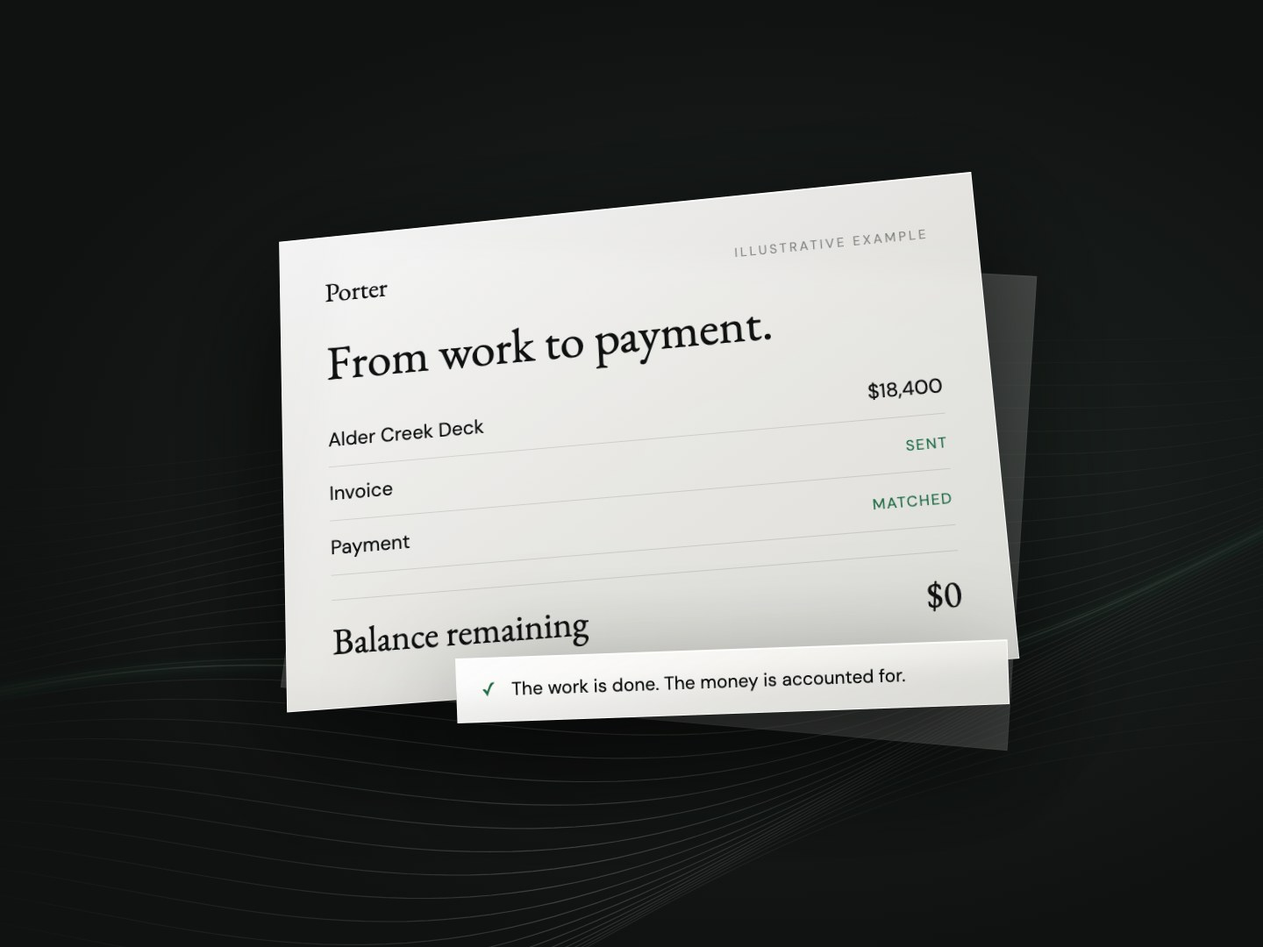
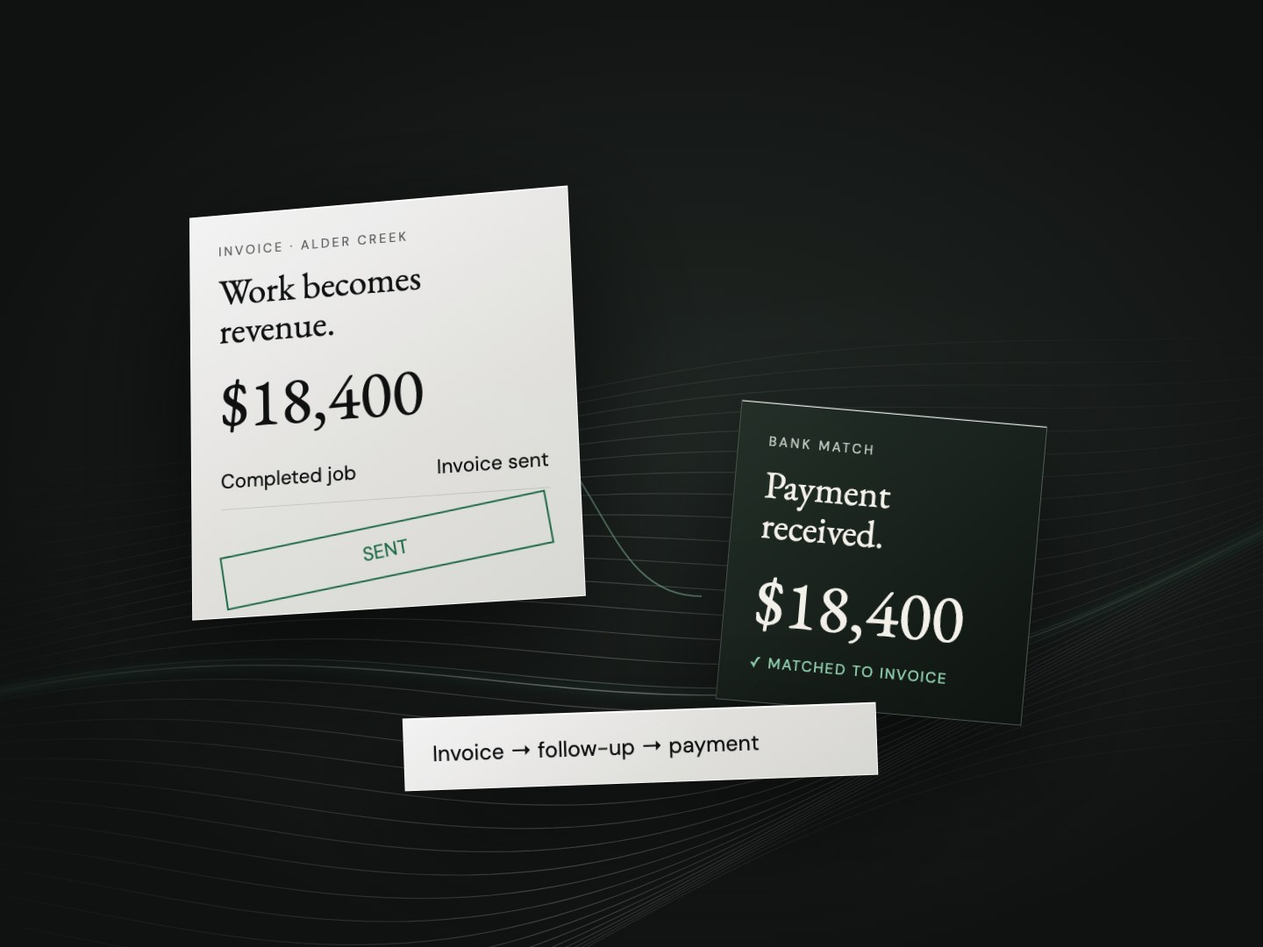
Clarify customer challenges and add distinct cinematic service and proof graphics

Changed region(s): [[0.125, 0.1833, 0.8438, 0.8556]]

diff --git a/scripts/showcase/source/scene-art.html b/scripts/showcase/source/scene-art.html
@@ -1,0 +1,27 @@
+<!doctype html><html><head><meta charset="utf-8"><link rel="stylesheet" href="glass.css"><script src="glass.js"></script><style>
+body.t-mono{--base:#101211;--bg:radial-gradient(ellipse at 55% 48%,#202723,#101211 74%);--hazec:rgba(149,212,179,.025)}
+#objects{position:absolute;inset:0;perspective:2200px}.paper{padding:34px;border-radius:0;transform:rotateY(-7deg) rotateX(10deg) rotateZ(-4deg)}.paper h2{font:400 43px/1.08 'EB Garamond';margin:16px 0 24px}.lab{font-size:15px;color:var(--tx3)}.amount{font:400 78px/1 'EB Garamond';margin:20px 0}.line{display:flex;justify-content:space-between;align-items:center;gap:18px;border-bottom:1px solid var(--hair);padding:17px 0;font-size:23px}.line:last-child{border:0}.good{color:var(--hi)}.tag{font:400 17px 'DM Sans';letter-spacing:.1em;text-transform:uppercase}.ribbon{padding:24px 32px;border-radius:0;font-size:25px;transform:rotateZ(-2deg)}.dark{--g-bg:linear-gradient(135deg,rgba(36,48,41,.96),rgba(14,20,16,.96));--tx:#F4F1EA;--tx3:#BFC9C1;--hair:rgba(191,201,193,.2);--hi:#95D4B3;--g-bd:rgba(191,201,193,.3);color:var(--tx)}
+.connections{position:absolute;inset:0;width:1440px;height:1080px}.connections path,.connections line{fill:none;stroke:#95D4B3;stroke-width:2;opacity:.5}.connections circle{fill:#95D4B3}.small{font-size:20px;color:var(--tx3);line-height:1.5}.calendar{display:grid;grid-template-columns:repeat(7,1fr);gap:10px;margin-top:30px}.day{font-size:25px;min-height:54px;padding:10px;text-align:center}.day.paid{background:var(--fill);color:var(--hi);outline:1px solid var(--hi)}.tile{padding:22px;border-radius:0;text-align:center}.tile .amount{font-size:49px}.bar{height:35px;background:var(--fill);margin:18px 0;position:relative}.bar i{display:block;height:100%;background:var(--hi);opacity:.7}.receipt{width:340px;height:420px;padding:34px;clip-path:polygon(0 0,100% 0,100% 96%,95% 100%,90% 96%,85% 100%,80% 96%,75% 100%,70% 96%,65% 100%,60% 96%,55% 100%,50% 96%,45% 100%,40% 96%,35% 100%,30% 96%,25% 100%,20% 96%,15% 100%,10% 96%,5% 100%,0 96%)}.stamp{border:2px solid var(--hi);padding:14px;font:400 22px 'DM Sans';text-align:center;color:var(--hi);transform:rotate(-8deg);margin-top:28px}.ghost{opacity:.5}.missing{border:2px dashed var(--tx3);padding:28px;margin-top:34px;text-align:center;color:var(--tx3);font-size:24px}.dots{display:flex;gap:14px;margin-top:30px}.dots b{width:20px;height:20px;border-radius:50%;background:var(--hi);opacity:.7}
+</style></head><body class="t-mono"><div id="stage"><div id="haze"></div><div id="objects"></div></div><script>
+const P=(x,y,w,content,extra='',style='')=>`<div class="glass paper ${extra}" style="left:${x}px;top:${y}px;width:${w}px;${style}">${content}</div>`;
+const R=(a,b)=>`<div class="line"><span>${a}</span><span>${b}</span></div>`;
+const H=(label,title)=>`<div class="lab">${label}</div><h2>${title}</h2>`;
+const links=paths=>`<svg class="connections" viewBox="0 0 1440 1080">${paths.map(d=>`<path d="${d}"/>`).join('')}</svg>`;
+const ribbon=(x,y,w,text)=>P(x,y,w,text,'ribbon');
+const chart=`<svg viewBox="0 0 700 310" style="width:100%;margin:25px 0"><path d="M0 270H700M0 170H700M0 70H700" stroke="rgba(14,17,16,.12)" fill="none"/><path d="M0 270C100 250 130 275 230 200S360 205 445 140S590 110 700 30" stroke="#2D6A4F" stroke-width="5" fill="none"/><path d="M230 200C360 195 445 220 700 190" stroke="#707973" stroke-width="4" stroke-dasharray="9 9" fill="none"/><circle cx="445" cy="140" r="8" fill="#2D6A4F"/></svg>`;
+const services=[
+ links(['M590 410L760 410','M590 610L760 610'])+P(160,240,460,H('Bank activity','Every movement, matched.')+R('Customer payment','$12,480')+R('Vendor payment','−$4,800')+R('Payroll','−$18,250'))+P(780,300,440,H('General ledger','A clear record.')+R('Receivables','✓ Matched')+R('Payables','✓ Matched')+R('Payroll','✓ Matched'),'','transform:rotateZ(4deg)')+ribbon(480,750,550,'Reconciled books → month-end reports'),
+ links(['M470 440C700 440 660 680 800 680'])+P(210,220,450,H('Invoice · Alder Creek','Work becomes revenue.')+'<div class="amount">$18,400</div>'+R('Completed job','Invoice sent')+'<div class="stamp">SENT</div>')+P(830,470,350,H('Bank match','Payment received.')+'<div class="amount">$18,400</div><div class="good tag">✓ Matched to invoice</div>','dark','transform:rotateZ(5deg)')+ribbon(460,810,540,'Invoice → follow-up → payment'),
+ P(220,190,710,H('Payment calendar','The right payment. The right day.')+'<div class="calendar">'+Array.from({length:28},(_,i)=>`<div class="day ${[7,13,20].includes(i)?'paid':''}">${i+1}</div>`).join('')+'</div>')+P(890,310,330,H('To approve','Materials supply')+'<div class="amount">$4,800</div>'+R('Due','14 Aug'),'dark','transform:rotateZ(7deg)')+ribbon(770,720,460,'Approval stays with you.'),
+ links(['M720 400V530M390 650V530H1050V650','M720 530V650'])+P(470,170,500,H('Payroll · 28 August','One payday. Everyone aligned.')+'<div class="dots"><b></b><b></b><b></b><b></b><b></b></div>')+[260,565,870].map((x,i)=>P(x,600,290,H(['Pay','Withholding','Books'][i],['Your people','Payroll taxes','Payroll journal'][i])+`<div class="good tag">${['Prepared','Recorded','Connected'][i]}</div>`,i===1?'dark':'','transform:rotateZ('+([-5,0,5][i])+'deg)')).join(''),
+ P(250,330,490,H('Supporting records','The details, organized.')+R('Year-end books','✓')+R('Payroll records','✓')+R('Supporting schedules','✓'),'','transform:rotateZ(-12deg)')+P(650,200,470,H('Tax preparation','Ready for filing.')+'<div class="small">Books and supporting records<br>connected to the filing process.</div><div class="stamp">PREPARATION → REVIEW</div>','','transform:rotateZ(6deg);min-height:490px')+ribbon(510,780,570,'A coordinated process, before the deadline.'),
+ P(180,200,950,H('Financial planning','One decision. Different futures.')+chart+R('Solid: operating plan','Dashed: hiring scenario'))+P(955,670,310,H('What if?','Two new hires')+'<div class="small">Explore the impact<br>before you commit.</div>','dark','transform:rotateZ(6deg)')
+];
+const challenges=[
+ P(330,240,660,H('Your current reports','The totals are there.')+R('Revenue','$148,000')+R('Operating expenses','$121,000')+'<div class="missing">But what changed — and why?</div>','','transform:rotateZ(-6deg)')+P(870,650,300,'<div class="amount">?</div><div class="small">Still waiting<br>for an explanation.</div>','dark','transform:rotateZ(7deg)'),
+ P(170,240,540,H('Email · last month','What was this payment for?')+'<div class="small">You already explained it.</div>','','transform:rotateZ(-8deg)')+P(600,445,530,H('Message · this month','Can you remind us?')+'<div class="small">The same context. Again.</div>','dark','transform:rotateZ(5deg)')+P(380,725,570,H('Your time','Back to the same conversation.'),'','transform:rotateZ(-3deg)'),
+ P(190,210,560,H('Job completed','Alder Creek Deck')+'<div class="amount">$18,400</div><div class="tag good">Work delivered</div>','','transform:rotateZ(-7deg)')+P(760,400,460,H('Still missing','The invoice.')+'<div class="missing">Not sent</div>','','transform:rotateZ(6deg)')+ribbon(460,780,540,'Work done. Cash still outstanding.'),
+ [P(160,220,420,H('Accounting','The books.')+R('Transactions','↗'),'','transform:rotateZ(-9deg)'),P(810,260,400,H('Spreadsheets','The group view.')+R('Manual roll-up','…'),'','transform:rotateZ(8deg)'),P(210,650,430,H('Inbox','The context.')+R('Messages','↗'),'dark','transform:rotateZ(5deg)'),P(790,660,450,H('Payments','The cash.')+R('Separate records','…'),'dark','transform:rotateZ(-5deg)')].join('')
+];
+const mode=new URLSearchParams(location.search).get('mode')||'service';const n=+(new URLSearchParams(location.search).get('n')||0);$('objects').innerHTML=(mode==='challenge'?challenges:services)[n];window.render=t=>renderField(t,.5);ready();
+</script></body></html>

diff --git a/src/sections/Pain.tsx b/src/sections/Pain.tsx
@@ -10,7 +10,6 @@ import { PainTools } from "../illustrations/PainTools";
 import type { PainIllustration } from "../industries/types";
 import "./Pain.css";
 import { Pill } from "../primitives/Pill";
-import { UseCaseFilm } from "../components/UseCaseFilm";
 import { USE_CASES } from "../content/useCases";
 
 type IllustrationComponent = (props: { active?: boolean }) => ReactElement;
@@ -80,16 +79,20 @@ export function Pain({ title, cards, cinematic = false }: PainProps = {}) {
 
   if (cinematic) {
     const stories = [
-      { title: "Numbers you can’t use.", problem: "Reports arrive after the decision. You see totals, but still don’t know what changed or what to do next.", result: "Ask a question. Follow the answer into the numbers behind it.", film: 2 },
-      { title: "The same explanations, every month.", problem: "Your finance work lives across conversations. You keep reminding people what each transaction was for.", result: "Porter learns the way your business works and carries that context forward.", film: 13 },
-      { title: "Work done. Money missing.", problem: "A finished job never becomes an invoice. Follow-ups slip. Cash arrives later than it should.", result: "Connect completed work to invoices and keep collections moving.", film: 3 },
-      { title: "A business spread across tools.", problem: "Every company has its own books. You spend time piecing them together before you can see the whole picture.", result: "Bring the companies together, with a clear view of each one and the group.", film: 5 },
+      { label: "Unclear reports", title: "Your reports arrive. The answers don’t.", challenge: "Your provider sends the totals, but you’re still left figuring out what changed, why it happened, and what to do next.", film: 2, alt: "A financial report contains totals, while a separate unanswered question asks what changed and why." },
+      { label: "Repeating yourself", title: "You explain your business. Then explain it again.", challenge: "The context gets lost between emails, messages and month-end questions. You keep reminding your provider what the same transactions were for.", film: 13, alt: "Messages from successive months ask for the same explanation, illustrating repeated work." },
+      { label: "Unpaid work", title: "You finished the work. The invoice never went out.", challenge: "Invoicing and follow-ups fall between you and your provider. Completed work stays unbilled, and cash arrives later than it should.", film: 3, alt: "A completed job sits apart from an invoice that has not been sent." },
+      { label: "Disconnected tools", title: "You have the tools. You still assemble the picture.", challenge: "Your books, payments, messages and spreadsheets live in different places. You become the person who has to connect them.", film: 5, alt: "Four separate records for accounting, spreadsheets, messages and payments have no connections between them." },
     ];
     const story = stories[active];
     return <section className="pain pain--cinematic section" id="pain"><SectionGradient shape={SHAPES.declining} intensity={0.07} />
-      <div className="container pain__inner"><MicroLabel>What we solve</MicroLabel><div className="pain__choices" aria-label="Choose a business problem">{stories.map((story,i) => <Pill key={story.title} variant={active === i ? "primary" : "ghost"} aria-pressed={active === i} onClick={() => setActive(i)}>{String(i+1).padStart(2,"0")} / {['Clarity','Context','Cash','Complexity'][i]}</Pill>)}</div>
-        <div className="pain__experience"><div className="pain__story" key={story.title}><SectionTitle text={story.title} scrub={false} /><p>{story.problem}</p><a href={`/use-cases/${USE_CASES.find(item => item.id === story.film)!.slug}`}>Explore this example ↗</a></div>
-        <UseCaseFilm key={story.film} item={USE_CASES.find(item => item.id === story.film)!} /></div>
+      <div className="container pain__inner">
+        <div className="pain__heading"><MicroLabel>The challenges</MicroLabel><SectionTitle text="When your finance setup holds you back." scrub={false} /><p>Challenges with your current provider or tools. Select one to explore.</p></div>
+        <div className="pain__choices" aria-label="Choose a challenge">{stories.map((item,i) => <Pill key={item.label} variant={active === i ? "primary" : "secondary"} aria-pressed={active === i} aria-controls="challenge-story" onClick={() => setActive(i)}><span>{String(i+1).padStart(2,"0")} / {item.label}</span><span aria-hidden="true">{active === i ? "−" : "+"}</span></Pill>)}</div>
+        <div className="pain__experience" id="challenge-story">
+          <div className="pain__story" key={story.title}><MicroLabel>With your current setup</MicroLabel><SectionTitle as="h3" text={story.title} scrub={false} /><p>{story.challenge}</p><a href={`/use-cases/${USE_CASES.find(item => item.id === story.film)!.slug}`}>See how Porter helps ↗</a></div>
+          <figure className="pain__art" key={active}><img src={`/challenges/challenge-${active+1}.jpg`} width="1440" height="1080" loading="lazy" alt={story.alt} /><figcaption>Illustrative example · before Porter</figcaption></figure>
+        </div>
       </div></section>;
   }
 
@@ -101,12 +104,12 @@ export function Pain({ title, cards, cinematic = false }: PainProps = {}) {
       <SectionGradient shape={SHAPES.declining} intensity={0.07} />
       <div className="container pain__inner">
         <Reveal>
-          <MicroLabel>The problem</MicroLabel>
+          <MicroLabel>The challenges</MicroLabel>
         </Reveal>
         <SectionTitle text={title ?? TITLE} className="pain__title" />
 
         <Reveal delay={120}>
-          <div className="pain__strip" role="tablist" aria-label="Pain points" style={{ gridTemplateColumns: gridCols }}>
+          <div className="pain__strip" role="tablist" aria-label="Business challenges" style={{ gridTemplateColumns: gridCols }}>
             {shown.map((c, i) => {
               const isActive = i === active;
               const { Illustration } = c;

diff --git a/src/sections/ScalesWithYou.tsx b/src/sections/ScalesWithYou.tsx
@@ -1,5 +1,4 @@
 import { useEffect, useRef, useState, useSyncExternalStore } from "react";
-import { MaterialIcon } from "../components/MaterialIcon";
 import { MicroLabel } from "../primitives/MicroLabel";
 import { SectionTitle } from "../primitives/SectionTitle";
 import { Reveal } from "../primitives/Reveal";
@@ -89,6 +88,17 @@ function ProofPage({ cases }: { cases?: Case[] }) {
   const rail = useRef<HTMLDivElement>(null);
   const reduced = useSyncExternalStore(subscribeMotion, motionSnapshot, () => true);
   const [paused, setPaused] = useState(false);
+  const [interacting, setInteracting] = useState(false);
+  const interactionTimer = useRef<ReturnType<typeof setTimeout> | null>(null);
+  const beginInteraction = () => {
+    if (interactionTimer.current) clearTimeout(interactionTimer.current);
+    setInteracting(true);
+  };
+  const endInteraction = () => {
+    if (interactionTimer.current) clearTimeout(interactionTimer.current);
+    interactionTimer.current = setTimeout(() => setInteracting(false), 1800);
+  };
+  useEffect(() => () => { if (interactionTimer.current) clearTimeout(interactionTimer.current); }, []);
   const [hovering, setHovering] = useState(false);
   const [focused, setFocused] = useState(false);
   const [inView, setInView] = useState(false);
@@ -99,7 +109,7 @@ function ProofPage({ cases }: { cases?: Case[] }) {
     return () => observer.disconnect();
   }, []);
   const deck = cases ?? CASES;
-  const automatic = !cases && !reduced && !paused && !hovering && !focused && inView;
+  const automatic = !cases && !reduced && !paused && !interacting && !hovering && !focused && inView;
   useEffect(() => {
     const el = rail.current;
     if (!el || !automatic) return;
@@ -122,9 +132,10 @@ function ProofPage({ cases }: { cases?: Case[] }) {
     return () => cancelAnimationFrame(frame);
   }, [automatic, deck.length]);
   const move = (direction: number) => {
-    setPaused(true);
+    beginInteraction();
+    endInteraction();
     const el = rail.current;
-    if (el) el.scrollBy({ left: direction * ((el.children[0] as HTMLElement).offsetWidth + 24), behavior: reduced ? "instant" : "smooth" });
+    if (el) el.scrollBy({ left: direction * ((el.children[0] as HTMLElement).offsetWidth + (Number.parseFloat(getComputedStyle(el).columnGap) || 0)), behavior: reduced ? "instant" : "smooth" });
   };
   return <div className="sws__page sws__page--proof" ref={viewRef}>
     <div className="container sws__proof-head">
@@ -139,17 +150,20 @@ function ProofPage({ cases }: { cases?: Case[] }) {
       aria-label="Customer stories" tabIndex={cases ? undefined : 0}
       onMouseEnter={() => setHovering(true)} onMouseLeave={() => setHovering(false)}
       onFocusCapture={() => setFocused(true)} onBlurCapture={event => { if (!event.currentTarget.contains(event.relatedTarget)) setFocused(false); }}
-      onTouchStart={() => setPaused(true)} onWheel={() => setPaused(true)}
+      onTouchStart={beginInteraction} onTouchEnd={endInteraction} onTouchCancel={endInteraction}
+      onWheel={event => { if (Math.abs(event.deltaX) > Math.abs(event.deltaY) || event.shiftKey) { beginInteraction(); endInteraction(); } }}
       onKeyDown={event => { if (!cases && (event.key === "ArrowRight" || event.key === "ArrowLeft")) { event.preventDefault(); move(event.key === "ArrowRight" ? 1 : -1); } }}>
       {deck.map((c,i) => <CaseCard key={c.kind} c={c} index={i+1} />)}
       {!cases && !reduced && deck.map((c,i) => <CaseCard key={`loop-${c.kind}`} c={c} index={i+1} duplicate />)}
     </div>
-    {!cases && <div className="container sws__proof-foot"><span>Different businesses. One finance team.</span><span>{reduced ? "Scroll to explore" : "Hover to pause. Take your time."}</span></div>}
+    {!cases && <div className="container sws__proof-foot"><span>Different businesses. One finance team.</span><span>{reduced ? "Scroll to explore" : "Plays automatically. Hover to pause."}</span></div>}
   </div>;
 }
 function CaseCard({ c, index, duplicate = false }: { c: Case; index: number; duplicate?: boolean }) {
+  const artwork = CASES.findIndex(story => story.kind === c.kind);
   return <HairlineCard className="sws__card" role="article" aria-label={c.kind} aria-hidden={duplicate || undefined} inert={duplicate || undefined} tabIndex={duplicate ? undefined : 0}>
-    <div className="sws__card-head"><span className="sws__card-num">{String(index).padStart(2,"0")}</span><MaterialIcon name={c.icon} /></div>
+    <div className="sws__card-head"><span className="sws__card-num">{String(index).padStart(2,"0")}</span><span>Customer story</span></div>
+    {artwork >= 0 && <div className="sws__art"><img src={`/proof/story-${artwork+1}.svg`} width="650" height="300" loading="lazy" alt="" /><span>Illustrated workflow</span></div>}
     <div className="sws__card-body"><h3 className="sws__card-kind">{c.kind}</h3><p className="sws__card-text">{c.body}</p></div>
   </HairlineCard>;
 }

diff --git a/src/sections/ScalesWithYou.css b/src/sections/ScalesWithYou.css
@@ -175,3 +175,19 @@
 }
 
 .sws__navigation .sws__pause { width: auto; padding-inline: 18px; font-size: 10px; }
+
+/* Paper and glass objects within the dark stage, matching the campaign films. */
+.sws__rail { padding-top: 18px; padding-bottom: 42px; gap: 28px; }
+.sws__card.hairline-card { position: relative; isolation: isolate; width: 350px; min-height: 0; padding: 22px 24px 28px; justify-content: start; gap: 0; color: var(--bg); background: linear-gradient(145deg, color-mix(in oklab,var(--ink) 97%,transparent),color-mix(in oklab,var(--ink) 82%,transparent)); border: .5px solid color-mix(in oklab,var(--ink) 70%,transparent); box-shadow: 0 18px 38px -24px #000; backdrop-filter: blur(18px); overflow: visible; }
+.sws__card::after { content: ""; position: absolute; inset: 12px -7px -10px 9px; z-index: -1; border: .5px solid color-mix(in oklab,var(--ink) 25%,transparent); background: linear-gradient(130deg,color-mix(in oklab,var(--ink) 10%,transparent),color-mix(in oklab,var(--ink) 2%,transparent)); transform: rotate(1.5deg); pointer-events: none; }
+.sws__card.hairline-card:hover { border-color: var(--ink); background: linear-gradient(145deg,color-mix(in oklab,var(--ink) 99%,transparent),color-mix(in oklab,var(--ink) 86%,transparent)); }
+.sws__card-head { align-items: center; }
+.sws__card-head > span:last-child { font: 400 9px var(--sans); text-transform: uppercase; letter-spacing: .1em; color: color-mix(in oklab,var(--bg) 65%,var(--ink)); }
+.sws__card-num { font: 400 12px var(--sans); color: color-mix(in oklab,var(--bg) 65%,var(--ink)); letter-spacing: .08em; }
+.sws__art { margin: 16px -18px 22px; }
+.sws__art img { width: 100%; height: auto; }
+.sws__art > span { display: block; text-align: center; font: 400 8px var(--sans); text-transform: uppercase; letter-spacing: .09em; color: color-mix(in oklab,var(--bg) 60%,var(--ink)); margin-top: 2px; }
+.sws__card-kind { font-size: 27px; line-height: 1.08; max-width: none; }
+.sws__card-text { color: color-mix(in oklab,var(--bg) 78%,var(--ink)); font-size: 12px; line-height: 1.75; margin-top: 16px; }
+.sws__static .sws__card { width: 100%; }
+@media(max-width:720px) { .sws__card.hairline-card { width: min(350px,calc(100vw - 64px)); padding: 22px 24px 28px; } .sws__static .sws__card { width: 100%; } .sws__proof-foot > span { max-width: 20ch; } }

diff --git a/tests/showcase.test.tsx b/tests/showcase.test.tsx
@@ -10,6 +10,8 @@ import { SERVICES } from "../src/content/sitePages";
 import { CASES } from "../src/content/proof";
 import { UseCaseFilm } from "../src/components/UseCaseFilm";
 import { UseCaseGallery } from "../src/sections/UseCaseGallery";
+import { Pain } from "../src/sections/Pain";
+import { ScalesWithYou } from "../src/sections/ScalesWithYou";
 import { WhatPorterDoes } from "../src/sections/WhatPorterDoes";
 import { UseCasesPage, UseCasePage } from "../src/pages/UseCases";
 import { trackMarketingEvent } from "../src/lib/marketingAnalytics";
@@ -137,5 +139,27 @@ describe("graphic-led service and software presentation", () => {
     expect(screen.getByRole("heading", {level:1,name:"See Porter work."})).toBeTruthy();
     expect(container.querySelectorAll(".use-card")).toHaveLength(20);
     expect(container.querySelector(".pis")).toBeNull();
+  });
+});
+
+
+describe("challenge framing and automatic proof motion", () => {
+  it("keeps the current-provider challenge distinct from the Porter solution", () => {
+    const {container} = render(<Pain cinematic />);
+    expect(screen.getByText("With your current setup")).toBeTruthy();
+    expect(container.querySelector("video")).toBeNull();
+    fireEvent.click(screen.getByRole("button", {name:/Repeating yourself/}));
+    expect(screen.getByRole("heading", {name:"You explain your business. Then explain it again."})).toBeTruthy();
+    expect(container.querySelector(".pain__art img")?.getAttribute("src")).toBe("/challenges/challenge-2.jpg");
+    expect(screen.getByRole("link", {name:/See how Porter helps/}).getAttribute("href")).toContain("/use-cases/");
+  });
+  it("does not turn page scrolling into a permanent carousel pause", () => {
+    render(<ScalesWithYou />);
+    const rail=screen.getByLabelText("Customer stories");
+    expect(screen.getByRole("button", {name:"Pause customer stories"})).toBeTruthy();
+    fireEvent.wheel(rail, {deltaY:100,deltaX:0});
+    expect(screen.queryByRole("button", {name:"Play customer stories"})).toBeNull();
+    fireEvent.click(screen.getByRole("button", {name:"Pause customer stories"}));
+    expect(screen.getByRole("button", {name:"Play customer stories"})).toBeTruthy();
   });
 });

diff --git a/src/sections/WhatPorterDoes.tsx b/src/sections/WhatPorterDoes.tsx
@@ -32,7 +32,7 @@ export function WhatPorterDoes({ title, items }: WhatPorterDoesProps = {}) {
           {!items && (
             <Reveal delay={140}>
               <p className="wpd__sub">
-                Porter is a managed finance service, supported by our own accounting software. Your team handles the work across six connected areas.
+                Porter is a managed finance service, supported by our own accounting software. Our team handles the work across six connected areas.
               </p>
             </Reveal>
           )}
@@ -54,11 +54,11 @@ export function WhatPorterDoes({ title, items }: WhatPorterDoesProps = {}) {
         {!items && <div className="wpd__experience">
           <figure className="wpd__art" key={active}>
             <img src={`/services/service-${active+1}.jpg`} width="1440" height="1080" loading="lazy" alt={[
-              "Month-end checklist with reconciled bank accounts, categorized transactions and financial statements ready for review.",
+              "Bank activity and general-ledger records connect through matching reconciliation lines.",
               "An invoice moves from completed work to a matched payment, with no balance remaining.",
-              "Vendor bills arranged by due date, with scheduled payments totaled below.",
-              "A payroll register, payday and connected payroll journal in one record.",
-              "A tax checklist connects year-end books, supporting documents and preparation.",
+              "A payment calendar highlights due dates beside a vendor bill awaiting approval.",
+              "A payroll hub connects pay, withholding and the payroll journal.",
+              "Separate supporting records and tax preparation folders feed a coordinated review process.",
               "Two forecast lines compare an operating plan and a hiring scenario."
             ][active]} />
             <figcaption>Illustrative example</figcaption>

diff --git a/src/content/sitePages.ts b/src/content/sitePages.ts
@@ -7,7 +7,7 @@ export const SERVICES = [
   { title: "Financial planning & analysis", body: "We build budgets, cash forecasts and financial models, explain changes in performance, and help you plan your next move." },
 ];
 export const SITE_PAGES = {
-  "/what-we-solve": { label: "What we solve", title: "Finance should move you forward.", description: "Understand your numbers, stop chasing answers, and keep invoices and bills from slipping through the cracks. See the business problems Porter solves." },
+  "/what-we-solve": { label: "What we solve", title: "Finance should move you forward.", description: "Understand your numbers, stop chasing answers, and keep invoices and bills from slipping through the cracks. See the business challenges Porter solves." },
   "/services": { label: "What Porter does", title: "Your finance team. The work, handled.", description: "Porter provides bookkeeping, accounting, accounts receivable, accounts payable, payroll, tax, and financial planning and analysis services for startups and small businesses." },
   "/use-cases": { label: "Our software", title: "Your numbers. Within reach.", description: "Explore Porter's modern accounting software through 20 product demonstrations. Ask questions, manage cash, and work with your books in Porter, ChatGPT, Claude or Slack." },
   "/why-porter": { label: "Why Porter", title: "A finance team that grows with you.", description: "See how Porter scales from your first transaction to a full finance function. Explore customer stories across startups, home services, professional services and company groups." },

diff --git a/src/sections/Pain.css b/src/sections/Pain.css
@@ -183,3 +183,14 @@
 .pain__story > a { display: inline-block; margin-top: 24px; }
 @media(max-width:860px) { .pain__experience .use-film { grid-row: 1; } .pain__story .section-title { font-size: 36px; } }
 @media(max-width:600px) { .pain--cinematic { padding-block: 64px; } }
+
+.pain__heading .section-title { margin: 20px 0 18px; max-width: 850px; }
+.pain__heading > p { color: var(--ink-2); font-size: 14px; }
+.pain__choices { gap: 12px; border: 0; padding-block: 28px 8px; }
+.pain__choices .pill { min-height: 48px; gap: 22px; padding-inline: 20px; font-size: 10px; }
+.pain__choices .pill[aria-pressed="false"] { border-color: var(--hair); }
+.pain__choices .pill:hover { transform: translateY(-2px); }
+.pain__art { margin: 0; min-width: 0; }
+.pain__art img { display: block; width: 100%; height: auto; mask-image: radial-gradient(ellipse 72% 68% at center,black 50%,transparent 100%); }
+.pain__art figcaption { color: var(--ink-muted); font: 400 9px var(--sans); text-transform: uppercase; letter-spacing: .1em; text-align: center; }
+@media(max-width:860px) { .pain__experience .pain__art { grid-row: 1; } .pain__choices { display: grid; grid-template-columns: 1fr 1fr; gap: 10px; } .pain__choices .pill { padding: 12px; font-size: 9px; white-space: normal; justify-content: space-between; text-align: left; line-height: 1.5; } }

diff --git a/src/sections/PorterIsSoftware.tsx b/src/sections/PorterIsSoftware.tsx
@@ -24,8 +24,8 @@ export function PorterIsSoftware({ standalone = false }: { standalone?: boolean 
       <div className="pis__editorial">
         <div className="pis__selector" aria-label="Choose a product demonstration">{MOMENTS.map((m,index) => <Pill variant={index === active ? "primary" : "ghost"} key={m.id} aria-pressed={index === active} aria-label={`${String(index+1).padStart(2,"0")} ${m.title}`} onClick={() => setActive(index)}>{String(index+1).padStart(2,"0")}</Pill>)}</div>
         <div className="pis__chapter" key={item.slug}><MicroLabel>{moment.label}</MicroLabel><ChapterTitle>{moment.title}</ChapterTitle><p>{moment.body}</p><a href={`/use-cases/${item.slug}`}>See how it works <span aria-hidden="true">↗</span></a></div>
-        <a className="pis__collection" href="/use-cases">Explore all 20 demonstrations <span aria-hidden="true">↗</span></a>
       </div>
     </div>
+    <div className="pis__collection"><div><MicroLabel>The full collection</MicroLabel><p>Three examples above. Twenty ways to see Porter work.</p></div><Pill href="/use-cases" size="lg" variant="primary">Explore all 20 demonstrations <span aria-hidden="true">↗</span></Pill></div>
   </div></section>;
 }

diff --git a/src/sections/PorterIsSoftware.css b/src/sections/PorterIsSoftware.css
@@ -18,6 +18,9 @@
 @media(max-width:600px) { .pis { padding: 64px 0; } .pis__inner { padding-inline: 20px; } .pis__heading { margin-bottom: 32px; } .pis__chapter :is(h2,h3) { font-size: 38px; } }
 
 .pis { background: radial-gradient(ellipse 65% 75% at 90% 55%, color-mix(in oklab,var(--forest) 9%,transparent),transparent),var(--bg); }
-.pis__collection { color: var(--ink-2); font-size: 12px; padding-block: 16px; }
-.pis__collection:hover { color: var(--green); }
+/* The complete collection is a primary destination, not a small editorial link. */
+.pis__collection { display: flex; align-items: center; justify-content: space-between; gap: 32px; border-top: .5px solid var(--hair); margin-top: 48px; padding-top: 32px; }
+.pis__collection p { color: var(--ink-2); margin-top: 10px; font-size: 15px; }
+.pis__collection .pill { min-height: 58px; padding: 18px 30px; gap: 28px; font-size: 12px; }
+@media(max-width:680px) { .pis__collection { flex-direction: column; align-items: stretch; gap: 24px; } .pis__collection .pill { white-space: normal; text-align: center; padding-inline: 18px; } }
 @media(max-width:800px) { .pis__experience { gap: 24px; } }

diff --git a/WEBSITE-AUDIT.md b/WEBSITE-AUDIT.md
@@ -4,7 +4,7 @@ Status: preview in draft PR #123. Michael must review and explicitly approve bef
 
 ## Page roles
 
-The homepage provides the full story: Hero → What We Solve → What Porter Does → Our Software → Why Porter → Proof → Common Questions → contact. The primary navigation and footer link to those sections. The former two-box “Porter approach” is removed.
+The homepage provides the full story: Hero → Challenges / What We Solve → What Porter Does → Our Software → Why Porter → Proof → Common Questions → contact. The primary navigation and footer link to those sections. The former two-box “Porter approach” is removed.
 
 `/use-cases` opens directly into the 20-film collection, filters and detail links. It does not repeat the homepage software showcase. Existing `/what-we-solve`, `/services` and `/why-porter` URLs remain available as supporting destinations; blog, industry and individual film URLs remain intact.
 
@@ -12,14 +12,16 @@ The homepage provides the full story: Hero → What We Solve → What Porter Doe
 
 - The hero keeps its original headline and Michael's exact subheader. Its curve and circle use the same SVG progress point.
 - Obsidian is the foundation, with restrained, section-specific green gradients. The earlier bright forest washes and beige proof treatment are removed.
-- Six service illustrations use the campaign's paper, perspective and contour graphics. The selected service changes its illustration and short explanation together. All six service names remain visible. Examples are identified as illustrations, not customer results.
-- One focused software showcase on the homepage links to all 20 films. Useful interface labels and the names ChatGPT and Claude remain visible.
-- Proof cards are 350px on desktop, showing roughly three at once, with smaller numerals and less empty space. Continuous motion pauses on hover, keyboard focus, manual interaction or the pause control. Reduced-motion visitors get a stationary scrollable collection. Loop duplicates are hidden from assistive technology.
+- Six service scenes use distinct compositions: reconciliation pairs, invoice-to-payment flow, a payment calendar, payroll distribution, tax records and forecast scenarios. They retain the campaign paper/perspective treatment. Copy explicitly says “Our team handles the work across six connected areas.” Examples are identified as illustrations, not customer results.
+- One focused software showcase on the homepage links to all 20 films through a prominent full-width collection band and large primary button. Useful interface labels and the names ChatGPT and Claude remain visible.
+- Proof cards use translucent ivory layers and ten illustrated workflows instead of icons, on the existing dark background. They stay 350px wide on desktop. Motion starts automatically in view. Hover/focus pause for reading; touch or horizontal manipulation pause temporarily. Ordinary vertical page scrolling no longer sets a persistent pause. Only the explicit pause button opts out persistently. Reduced-motion visitors get a stationary scrollable collection. Loop duplicates are hidden from assistive technology.
 - Common questions use compact hairline accordions, initially closed, with one answer open at a time.
 - The navigation is one clipped, continuous shape with contiguous segments. All five links fit on phones. Shared header-height offsets keep blog and article headings below the fixed navigation.
 - Mobile footer Product links use two columns; Company and Legal sit beside each other. Article FAQ and contact blocks now fit the phone reading column instead of remaining 720px wide.
 
 “Talk to Porter” opens the contextual contact form. Existing audit and campaign scheduling flows remain separate.
+
+The challenges section explicitly describes the visitor’s current provider/tools, with four outlined controls and separate before-Porter illustrations. It no longer replays solution films next to ambiguous negative headlines. Each challenge links to the relevant solution demonstration.
 
 ## SEO and answer-engine coverage
 
@@ -31,10 +33,10 @@ This follows [Google's AI-search guidance](https://developers.google.com/search/
 
 - Build generates 46 static routes; full server and React suites cover existing flows plus gallery ordering, service selection and the single collection introduction.
 - Browser checks at 1440, 768, 390 and 360px cover homepage anchors, heading clearance, overflow, all six services, grouped footer, collection and blog layouts.
-- Motion checks cover proof autoplay, hover pause, resume, explicit pause, FAQ expansion and filtered gallery numbering. All four published blog articles were checked for phone overflow.
+- Motion checks cover proof autoplay without a click, vertical wheel regression, hover pause, touch release, resume, explicit pause, FAQ expansion and filtered gallery numbering. All four published blog articles were checked for phone overflow.
 - Existing lint findings remain in unrelated legacy code and HeroChart's pre-existing effects. The revised components otherwise pass targeted lint.
 - No production deployment, merge, indexing submission or test lead submission was performed.
 
 ## Numbering
 
-Displayed card numbers follow visible reading order, including filtered and curated subsets. Details show their category rather than a conflicting source ID. Services, problems, software selectors, proof stories and FAQ entries all begin at 01 and progress in reading order. Financial figures, dates and record IDs inside illustrative graphics are not section numbering.
+Displayed card numbers follow visible reading order, including filtered and curated subsets. Details show their category rather than a conflicting source ID. Services, challenges, software selectors, proof stories and FAQ entries all begin at 01 and progress in reading order. Financial figures, dates and record IDs inside illustrative graphics are not section numbering.
